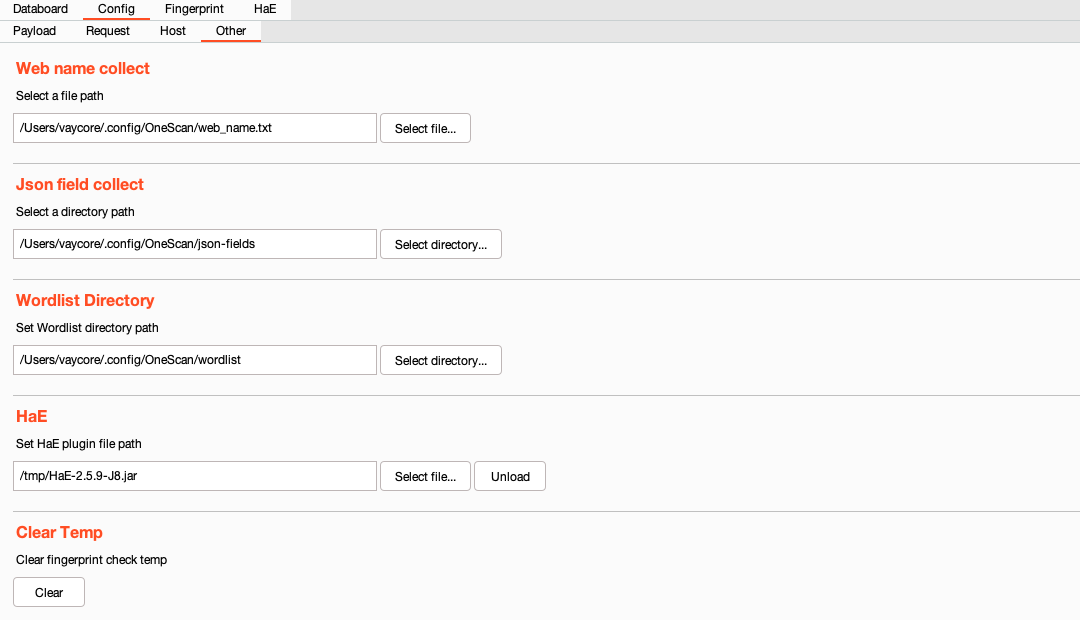
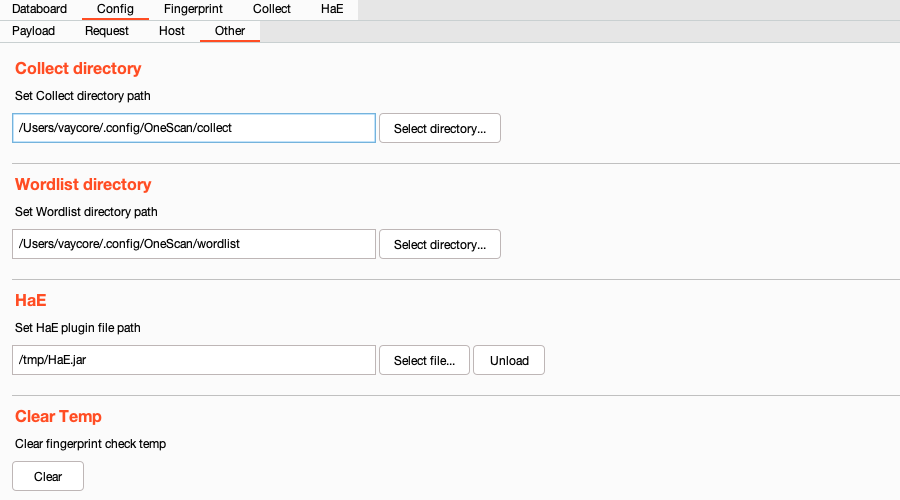
更新说明文档，更新插件截图

Changed region(s): [[0.0, 0.0, 0.5911, 0.78], [0.0, 0.81, 0.1867, 0.99], [0.3422, 0.36, 0.4667, 0.42]]

diff --git a/README.md b/README.md
@@ -135,6 +135,7 @@ Request配置界面如下
 ![](imgs/config_request.png)
 
 - `QPS` QPS限制，限制每秒请求的数量，范围（`1-9999`）
+- `Request delay` 请求延时限制，限制每次请求的间隔时间，范围（`0-99999`）。（单位：毫秒）
 - `Scan level` 限制目录扫描层级，范围（`1-99`）。限制方向：`Left to right`（从左往右），`Right to left`（从右往左）
 - `Retry` 请求失败时重试次数配置，范围（`0-9`）
 - `Include method` 配置请求方法白名单
@@ -158,8 +159,7 @@ Other配置界面如下
 
 ![](imgs/config_other.png)
 
-- `Web name collect` Web 目录名收集（例如：`http://xxx.com/wapi/xxx.html` 会将该 url 中的 `wapi` 写入到指定的文件中）
-- `Json field collect` JSON 字段收集（收集 JSON 格式响应包中的所有 `key` 值，保存到指定目录）
+- `Collect directory` 数据收集存放目录
 - `Wordlist Directory` 插件`1.0.0`版本新增字典管理，此目录下包含所有字典文件的配置
 - `HaE` 配置与 [HaE](https://github.com/gh0stkey/HaE) 插件联动，实现主面板数据高亮（配置路径示例如图）
 - `Clear Temp` 清除指纹识别缓存（用于加快指纹识别的速度）
@@ -216,6 +216,19 @@ Other配置界面如下
 - `iNotContains` 不包含（忽略大小写）
 - `regex` 正则匹配
 - `notRegex` 正则不匹配
+
+### Collect数据收集
+
+插件 `1.5.0` 版本新增 `Collect` 数据收集面板，面板截图如下：
+
+![](imgs/collect_panel.png)
+
+- `All` 列出所有收集的数据
+- `JsonField` 收集的 JSON 字段信息
+- `WebName` 收集的 WebName 信息（例如访问：`/api/v1/users`，会自动收集 `api`）
+- `Search` 在列表中搜索对应数据（正则表达式）
+- `Reverse` 反向搜索（勾选后，例如搜索：`a`，列表中不会出现包含 `a` 的数据）
+- `Ignore Case` 忽略大小写
 
 ## 插件演示
 
